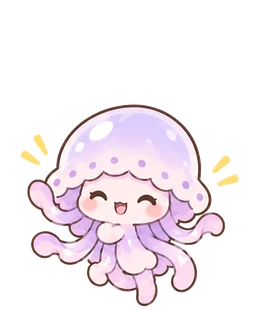
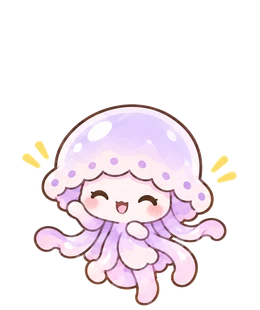
なかま：ゆらり（こども）の ふつう・よろこび・しょんぼり の絵を直す
手が かたほうだけに 2つ ある ように 見えた 絵と、足が あった 絵を 差しかえ。
NK_IMG_VER を 15 に 上げる。

diff --git a/index.html b/index.html
@@ -3630,7 +3630,7 @@ body.course .levels.nrange .lv{padding:3px 2px;font-size:12px}
   const nkSp = id => NK_LIST.find(x=>x.id===id) || NK_LIST[0];
   // ちいさい だんかいは すこし おおきく みせる（そだって いる かんじは のこす）
   const NK_SCALE = [1.9, 1.5, 1.15, 1, 1, 1];
-  const NK_IMG_VER = "14";   // なかまの え を さしかえたら ばんごうを あげる（ふるい え が のこらない ように）
+  const NK_IMG_VER = "15";   // なかまの え を さしかえたら ばんごうを あげる（ふるい え が のこらない ように）
   const nkImgSrc = (id, stage, mood) => `nakama/${id}/${NK_STAGES[stage]}_${stage===0 && mood==="s" ? "n" : mood}.webp?v=${NK_IMG_VER}`;
   const dkDate = k => { const [y,m,d]=k.split("-").map(Number); return new Date(y, m-1, d); };
   const dkAdd = (k, n) => { const d=dkDate(k); d.setDate(d.getDate()+n); return dayKey(d); };

diff --git a/CHANGELOG.md b/CHANGELOG.md
@@ -9,6 +9,11 @@
 
 ---
 
+## 2026-11-05
+
+### 修正（なかま）
+- **00:54** ゆらり（こども）の絵を直しました。ふつう・よろこび は、手が かたほう だけに 2つ あるように 見えていたのを、むねの まえに 手が 2本 ある 絵に。しょんぼり は、からだの したに 足が あったのを、ほかの 絵と おなじ ふわふわの あし に。
+
 ## 2026-11-04
 
 ### 変更（利用状況の記録）
